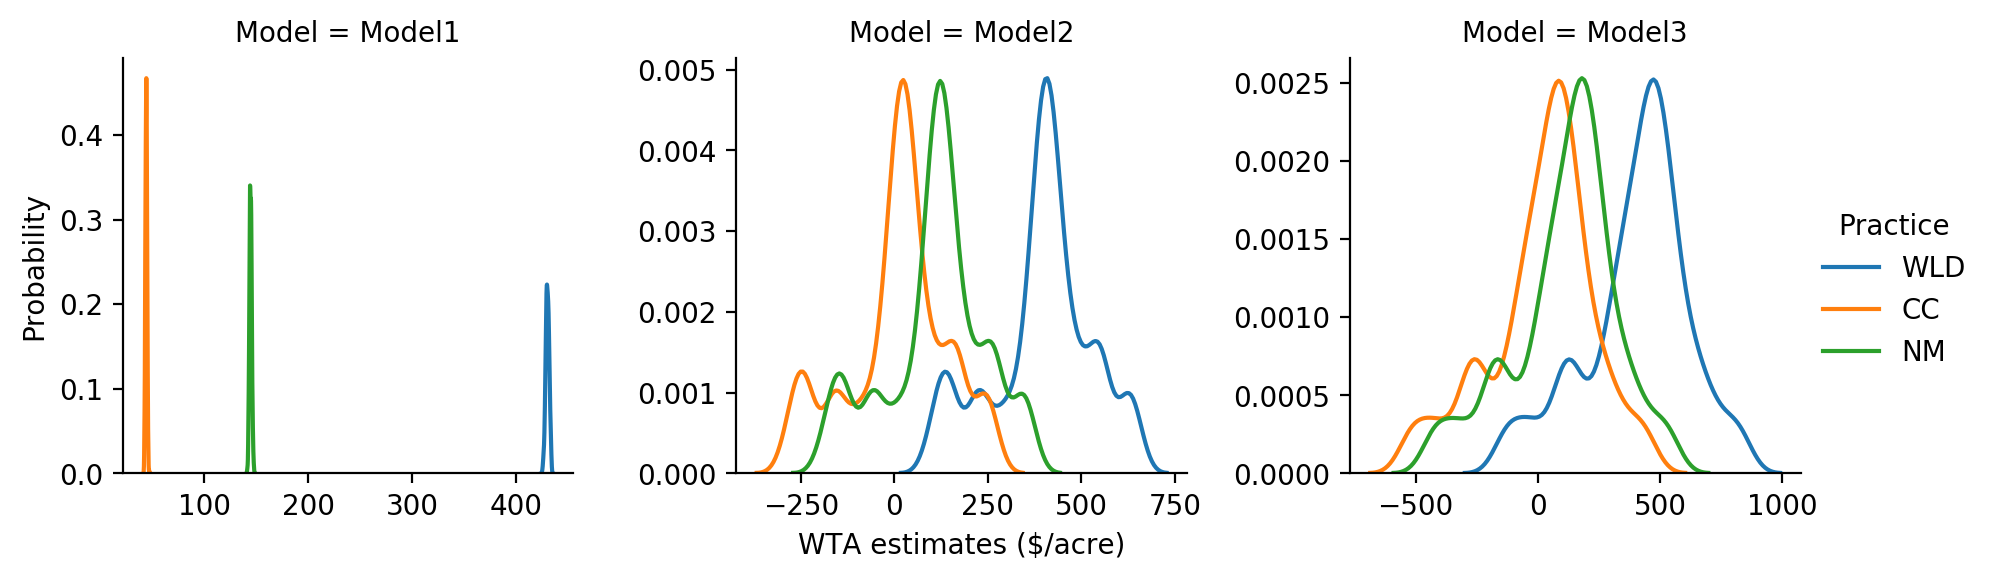
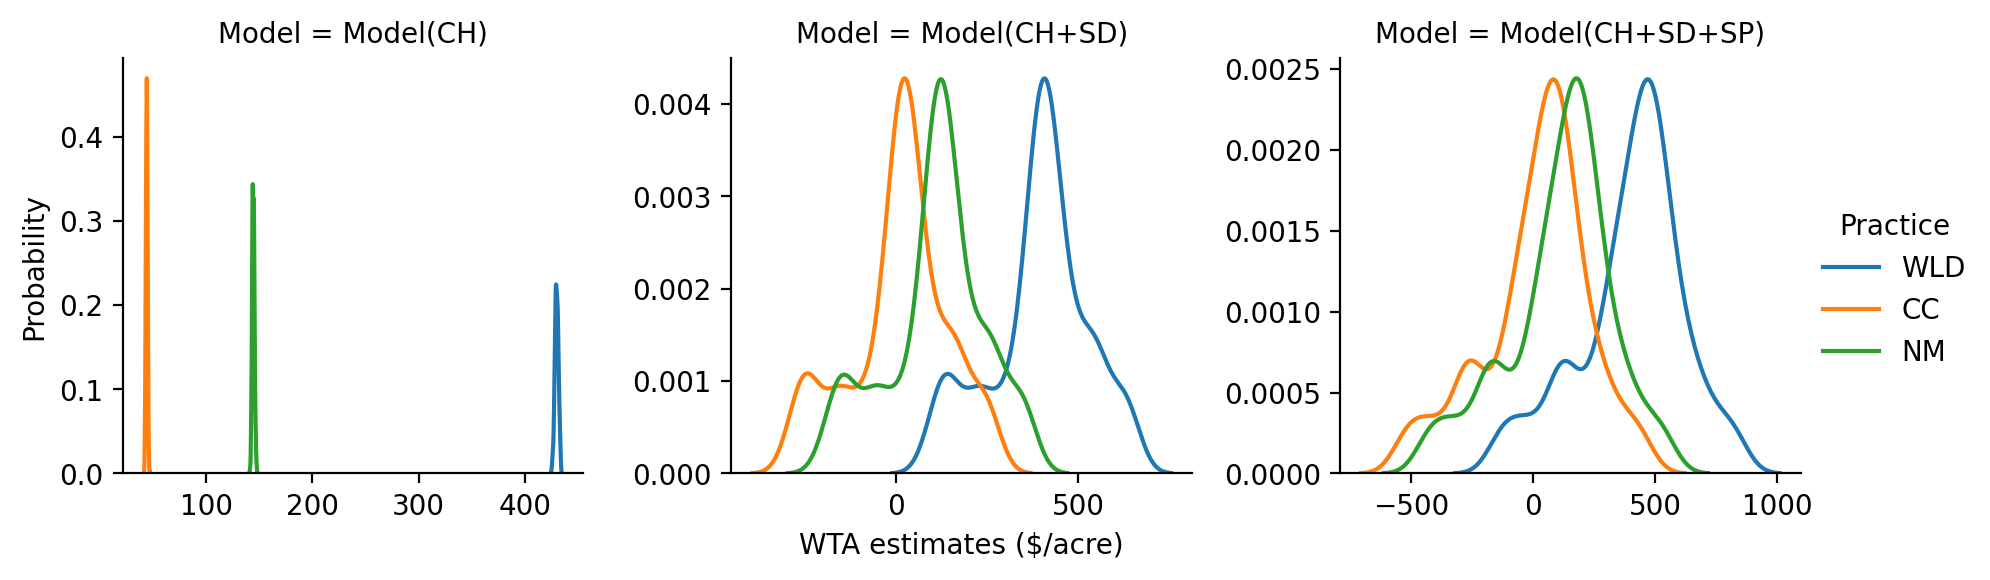
update VIF test

diff --git a/survey/code/python/wta_plots.py b/survey/code/python/wta_plots.py
@@ -9,7 +9,7 @@ from scipy import stats
 from pathlib import Path
 from scipy.stats import ttest_ind
 from scipy.stats import ttest_rel
-data_folder = Path('C:/Users/langzx/Desktop/github/DCM/data')
+data_folder = Path('/Users/ellelang/Desktop/github/DCM/data')
 #dat0 =  pd.read_csv(data_folder/'factors7_0415.csv')
 
 cluster = pd.read_csv(data_folder/'merged_cluster_0504.csv')
@@ -48,9 +48,9 @@ wld_origin['Practice']="WLD"
 cc_origin['Practice']="CC"
 nm_origin['Practice']="NM"
 
-wld_origin['Model'] = 'Model2'
-cc_origin['Model'] = 'Model2'
-nm_origin['Model'] = 'Model2'
+wld_origin['Model'] = 'Model(CH+SD)'
+cc_origin['Model'] = 'Model(CH+SD)'
+nm_origin['Model'] = 'Model(CH+SD)'
 
 wld_origin['Cluster']= cluster.Cluster
 cc_origin['Cluster']= cluster.Cluster
@@ -63,9 +63,9 @@ nm_origin['Id']=cluster.id
 wld_ba['Practice']="WLD"
 cc_ba['Practice']="CC"
 nm_ba['Practice']="NM"
-wld_ba['Model']="Model3"
-cc_ba['Model']="Model3"
-nm_ba['Model']="Model3"
+wld_ba['Model']='Model(CH+SD+SP)'
+cc_ba['Model']='Model(CH+SD+SP)'
+nm_ba['Model']='Model(CH+SD+SP)'
 
 wld_ba['Cluster']= cluster.Cluster
 cc_ba['Cluster']= cluster.Cluster
@@ -77,9 +77,9 @@ nm_ba['Id']=cluster.id
 wld_onlyatt['Practice']="WLD"
 cc_onlyatt['Practice']="CC"
 nm_onlyatt['Practice']="NM"
-wld_onlyatt['Model']="Model1"
-cc_onlyatt['Model']="Model1"
-nm_onlyatt['Model']="Model1"
+wld_onlyatt['Model']="Model(CH)"
+cc_onlyatt['Model']="Model(CH)"
+nm_onlyatt['Model']="Model(CH)"
 
 wld_onlyatt['Cluster']= cluster.Cluster
 cc_onlyatt['Cluster']= cluster.Cluster
@@ -95,10 +95,10 @@ frames = [wld_onlyatt,cc_onlyatt,nm_onlyatt,
 whole_wta = pd.concat(frames)
 whole_wta.columns
 whole_wta.head(5)
-wta_origin = whole_wta.loc[whole_wta['Model'] == 'Model2']
+wta_origin = whole_wta.loc[whole_wta['Model'] == 'Model(CH+SD)']
 #wta_origin.shape
-wta_ba = whole_wta.loc[whole_wta['Model'] == 'Model3']
-wta_onlyatt = whole_wta.loc[whole_wta['Model'] == 'Model1']
+wta_ba = whole_wta.loc[whole_wta['Model'] == 'Model(CH+SD+SP)']
+wta_onlyatt = whole_wta.loc[whole_wta['Model'] == 'Model(CH)']
 wta_onlyatt.shape
       
         

diff --git a/survey/code/python/vif_test.py b/survey/code/python/vif_test.py
@@ -1,0 +1,61 @@
+#!/usr/bin/env python3
+# -*- coding: utf-8 -*-
+"""
+Created on Tue Mar 18 08:28:42 2025
+
+@author: ellelang
+"""
+
+from numpy import random
+import matplotlib.pyplot as plt
+import seaborn as sns
+from scipy import stats
+from pathlib import Path
+from scipy.stats import ttest_ind
+from scipy.stats import ttest_rel
+from statsmodels.stats.outliers_influence import variance_inflation_factor
+data_folder = Path('/Users/ellelang/Desktop/github/DCM/survey/data')
+#dat0 =  pd.read_csv(data_folder/'factors7_0415.csv')
+data = pd.read_csv(data_folder/'merged_cluster_region.csv')
+
+data.columns
+
+selected_col = [ 'aware',
+       'past', 'appreciate', 'social',
+       'taxcost','implakes',
+       'incomefromfarming','landarea','dflmean']
+
+# 'mean_wld','mean_cc','mean_nm',
+X = data[selected_col]
+print(X.isna().sum())
+
+# Check for Inf values
+print(np.isinf(X).sum())
+
+#df_clean = X.fillna(X.mean()) 
+df_clean = X.dropna()
+
+vif = pd.DataFrame()
+vif["Variable"] = selected_col
+
+vif["VIF"] = [variance_inflation_factor(df_clean.values, i) for i in range(df_clean.shape[1])]
+
+print(vif.sort_values(by = 'VIF'))
+
+
+df_clean.columns
+
+renamed_cols = ['F_aware', 'F_pastexperience','F_appreciation', 'F_responsibility',
+                'Tax', 'Impaired_lakes','Income_fromfarming', 'Landsize', 'Political_vote']
+df_clean.columns  = renamed_cols 
+corr_matrix = df_clean.corr()
+plt.figure(figsize=(10,8))
+sns.heatmap(corr_matrix, annot=True, cmap="coolwarm", fmt=".2f")
+plt.show()
+
+
+# Compute correlation of dfl08to18 with all other variables
+correlations = df_clean.corr()#[['Tax','Political_vote']]
+#.sort_values(ascending=False)
+
+correlations

diff --git a/MRBpaper/plot_scenarios.py b/MRBpaper/plot_scenarios.py
@@ -1,20 +1,19 @@
 #!/usr/bin/env python
 # coding: utf-8
-
-# In[1]:
-
-
-import numpy as np
+from scipy import stats
 import pandas as pd
-import json
+import numpy as np
+from numpy import random
 import matplotlib.pyplot as plt
 import seaborn as sns
+from scipy import stats
+from pathlib import Path
+# In[1]:
+
+data_folder = Path('Users/ellelang/Desktop/github/DCM/MRBpaper')
 
 
-# In[2]:
-
-
-df_results  = pd.read_csv('MRB_20240311.csv')
+df_results  = pd.read_csv(data_folder/'MRB_20240311.csv')
 
 
 # In[3]:

diff --git a/survey/code/python/marginalwta_plots.py b/survey/code/python/marginalwta_plots.py
@@ -9,7 +9,7 @@ from scipy import stats
 from pathlib import Path
 from scipy.stats import ttest_ind
 from scipy.stats import ttest_rel
-data_folder = Path('C:/Users/langzx/Desktop/github/DCM/data')
+data_folder = Path('/Users/ellelang/Desktop/github/DCM/data')
 #dat0 =  pd.read_csv(data_folder/'factors7_0415.csv')
 wld_origin = pd.read_csv(data_folder/'WLD_wta_originmarginal.csv')
 cc_origin = pd.read_csv(data_folder/'CC_wta_originmarginal.csv')
